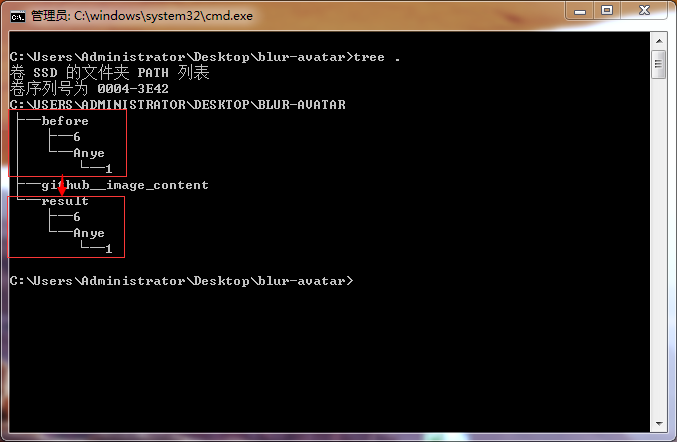
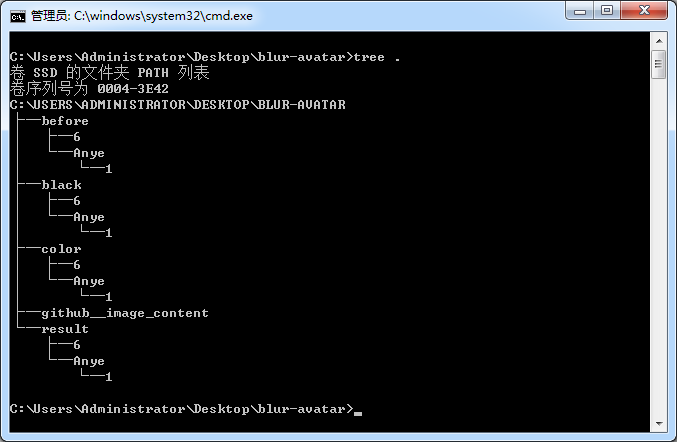
提交说明及相关图片

Changed region(s): [[0.0, 0.0, 1.0, 1.0], [0.062, 0.7059, 0.3102, 0.8529]]

diff --git a/README.md b/README.md
@@ -1,2 +1,25 @@
 # blur-avatar
-模糊化微信聊天记录截图
+自动批量模糊化微信聊天记录头像（for Jonns）
+
+# 速度
+经过测试，处理160张图片仅需要**2分钟**。
+
+# 效果
+有 `直接黑边` 与 `画条纹`两种效果。颜色默认是灰色，可以自定义。
+## 画条纹效果（便于区分群聊用户，同时又能隐藏用户）
+![画条纹效果处理后](https://raw.githubusercontent.com/Anye/blur-avatar/master/result/Anye/1/Screenshot_2015-04-07-22-05-59.png)
+处理前的样子：
+![画条纹效果处理前](https://raw.githubusercontent.com/Anye/blur-avatar/master/before/Anye/1/Screenshot_2015-04-07-22-05-59.png)
+
+## 黑边效果（简单粗暴又有效）
+![黑边效果处理后](https://raw.githubusercontent.com/Anye/blur-avatar/master/black/Anye/1/Screenshot_2015-04-07-22-05-59.png)
+处理前的样子：
+![画条纹效果处理前](https://raw.githubusercontent.com/Anye/blur-avatar/master/before/Anye/1/Screenshot_2015-04-07-22-05-59.png)
+
+## 其它颜色（好看）
+![其它颜色处理后](https://raw.githubusercontent.com/Anye/blur-avatar/master/color/Anye/1/Screenshot_2015-04-07-22-05-59.png)
+处理前的样子：
+![画条纹效果处理前](https://raw.githubusercontent.com/Anye/blur-avatar/master/before/Anye/1/Screenshot_2015-04-07-22-05-59.png)
+
+# 运行截图
+![运行截图](https://raw.githubusercontent.com/Anye/blur-avatar/master/github__image_content/run.png)
